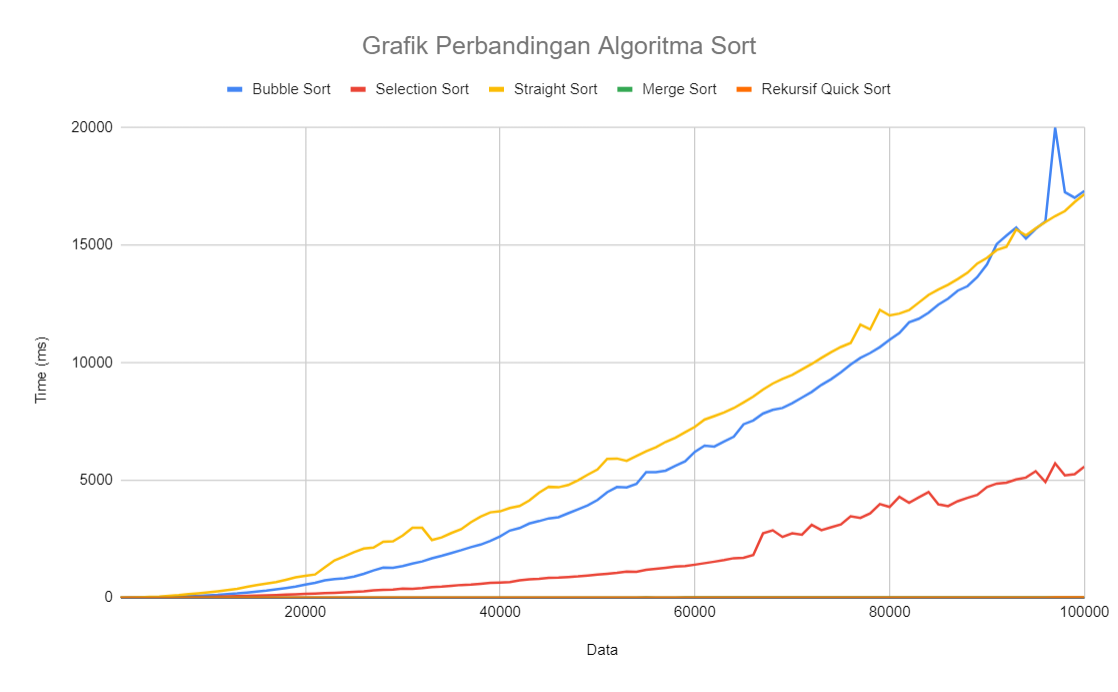
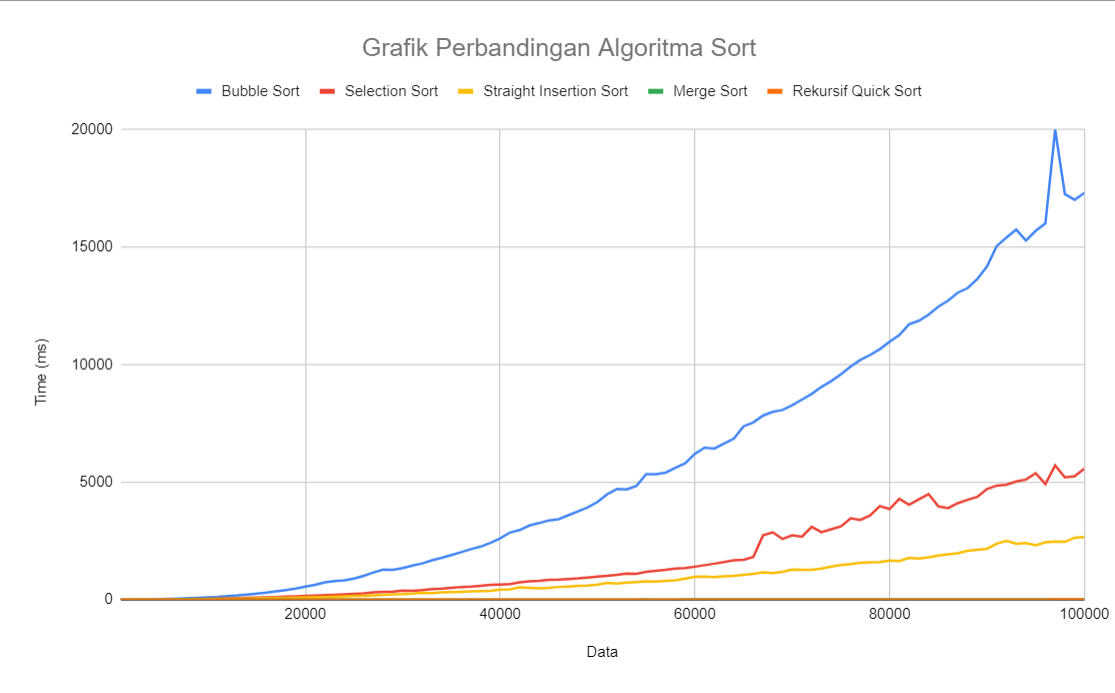
upload the source code

diff --git a/src/Merge_Sort.cpp b/src/Merge_Sort.cpp
@@ -1,0 +1,111 @@
+#include <chrono>
+#include <cstdlib>
+#include <iostream>
+using namespace std;
+int *generate_random_int(int n) {
+  int *data = new int[n];
+  for (int i = 0; i < n; i++) {
+    data[i] = rand();
+  }
+  return data;
+}
+bool is_sorted(int *data, int n) {
+  for (int i = 1; i < n; i++) {
+    if (data[i - 1] > data[i]) {
+      return false;
+    }
+  }
+  return true;
+}
+void merge(int *data, int left, int mid, int right) {
+    int i, j, k;
+    int n1 = mid - left + 1;
+    int n2 = right - mid;
+
+    // Create R and L arrays
+    int *L = new int[n1];
+    int *R = new int[n2];
+
+    // Copy data to R and L arrays
+    for (i = 0; i < n1; i++)
+        L[i] = data[left + i];
+    for (j = 0; j < n2; j++)
+        R[j] = data[mid + 1 + j];
+
+    // Merge the R and L arrays back into data[left..right]
+    i = 0;
+    j = 0;
+    k = left;
+    while (i < n1 && j < n2) {
+        if (L[i] <= R[j]) {
+            data[k] = L[i];
+            i++;
+        } else {
+            data[k] = R[j];
+            j++;
+        }
+        k++;
+    }
+
+    // Copy the remaining elements of L[], if there are any
+    while (i < n1) {
+        data[k] = L[i];
+        i++;
+        k++;
+    }
+
+    // Copy the remaining elements of R[], if there are any
+    while (j < n2) {
+        data[k] = R[j];
+        j++;
+        k++;
+    }
+
+    // Free arrays
+    delete[] L;
+    delete[] R;
+}
+
+void mergeSort(int *data, int left, int right) {
+    if (left < right) {
+        int mid = left + (right - left) / 2;
+
+        // Sort first and second halves
+        mergeSort(data, left, mid);
+        mergeSort(data, mid + 1, right);
+
+        // Merge the sorted halves
+        merge(data, left, mid, right);
+    }
+}
+
+void sort(int *data, int n) {
+    mergeSort(data, 0, n - 1);
+}
+int main() {
+  int num_of_experiments = 100;
+  int *data;
+  int n;
+  // DEBUG
+  // The program will stop if the sorting is incorrect
+  n = 100;
+  data = generate_random_int(n);
+  sort(data, n);
+  if (!is_sorted(data, n)) {
+    throw runtime_error("Sorting function ERROR.");
+  }
+  // EXPERIMENTS
+  cout << "data, time (ms)\n";
+  cout << " \n";
+  for (int i = 1; i <= num_of_experiments; i++) {
+    n = i * 1000;
+    data = generate_random_int(n);
+    auto start = chrono::high_resolution_clock::now();
+    sort(data, n);
+    auto stop = chrono::high_resolution_clock::now();
+    auto duration = chrono::duration_cast<chrono::milliseconds>(stop - start);
+    cout << n << ", " << duration.count() << "\n";
+    delete data;
+  }
+  return 0;
+}

diff --git a/src/Quick_Sort.cpp b/src/Quick_Sort.cpp
@@ -1,0 +1,65 @@
+#include <chrono>
+#include <cstdlib>
+#include <iostream>
+using namespace std;
+int *generate_random_int(int n) {
+  int *data = new int[n];
+  for (int i = 0; i < n; i++) {
+    data[i] = rand();
+  }
+  return data;
+}
+bool is_sorted(int *data, int n) {
+  for (int i = 1; i < n; i++) {
+    if (data[i - 1] > data[i]) {
+      return false;
+    }
+  }
+  return true;
+}
+void quickSort(int *data, int left, int right) {
+    if (left < right) {
+        int pivot = data[right];
+        int i = left - 1;
+        for (int j = left; j <= right - 1; j++) {
+            if (data[j] < pivot) {
+                i++;
+                swap(data[i], data[j]);
+            }
+        }
+        swap(data[i + 1], data[right]);
+        int partitionIndex = i + 1;
+        quickSort(data, left, partitionIndex - 1);
+        quickSort(data, partitionIndex + 1, right);
+    }
+}
+void sort(int *data, int n) {
+    quickSort(data, 0, n - 1);
+}
+int main() {
+  int num_of_experiments = 100;
+  int *data;
+  int n;
+  // DEBUG
+  // The program will stop if the sorting is incorrect
+  n = 100;
+  data = generate_random_int(n);
+  sort(data, n);
+  if (!is_sorted(data, n)) {
+    throw runtime_error("Sorting function ERROR.");
+  }
+  // EXPERIMENTS
+  cout << "data, time (ms)\n";
+  cout << " \n";
+  for (int i = 1; i <= num_of_experiments; i++) {
+    n = i * 1000;
+    data = generate_random_int(n);
+    auto start = chrono::high_resolution_clock::now();
+    sort(data, n);
+    auto stop = chrono::high_resolution_clock::now();
+    auto duration = chrono::duration_cast<chrono::milliseconds>(stop - start);
+    cout << n << ", " << duration.count() << "\n";
+    delete data;
+  }
+  return 0;
+}

diff --git a/src/Bubble_Sort.cpp b/src/Bubble_Sort.cpp
@@ -1,0 +1,58 @@
+#include <chrono>
+#include <cstdlib>
+#include <iostream>
+using namespace std;
+int *generate_random_int(int n) {
+  int *data = new int[n];
+  for (int i = 0; i < n; i++) {
+    data[i] = rand();
+  }
+  return data;
+}
+bool is_sorted(int *data, int n) {
+  for (int i = 1; i < n; i++) {
+    if (data[i - 1] > data[i]) {
+      return false;
+    }
+  }
+  return true;
+}
+void sort(int *data, int n) {
+    for (int i = 0; i < n - 1; i++) {
+        for (int j = 0; j < n - i - 1; j++) {
+            if (data[j] > data[j + 1]) {
+                // Swap data[j] and data[j+1]
+                int temp = data[j];
+                data[j] = data[j + 1];
+                data[j + 1] = temp;
+            }
+        }
+    }
+}
+int main() {
+  int num_of_experiments = 100;
+  int *data;
+  int n;
+  // DEBUG
+  // The program will stop if the sorting is incorrect
+  n = 100;
+  data = generate_random_int(n);
+  sort(data, n);
+  if (!is_sorted(data, n)) {
+    throw runtime_error("Sorting function ERROR.");
+  }
+  // EXPERIMENTS
+  cout << "data, time (ms)\n";
+  cout << " \n";
+  for (int i = 1; i <= num_of_experiments; i++) {
+    n = i * 1000;
+    data = generate_random_int(n);
+    auto start = chrono::high_resolution_clock::now();
+    sort(data, n);
+    auto stop = chrono::high_resolution_clock::now();
+    auto duration = chrono::duration_cast<chrono::milliseconds>(stop - start);
+    cout << n << ", " << duration.count() << "\n";
+    delete data;
+  }
+  return 0;
+}

diff --git a/src/Selection_Sort.cpp b/src/Selection_Sort.cpp
@@ -1,0 +1,57 @@
+#include <chrono>
+#include <cstdlib>
+#include <iostream>
+using namespace std;
+int *generate_random_int(int n) {
+  int *data = new int[n];
+  for (int i = 0; i < n; i++) {
+    data[i] = rand();
+  }
+  return data;
+}
+bool is_sorted(int *data, int n) {
+  for (int i = 1; i < n; i++) {
+    if (data[i - 1] > data[i]) {
+      return false;
+    }
+  }
+  return true;
+}
+void sort(int *data, int n) {
+    for (int i = 0; i < n - 1; i++) {
+        int min_idx = i;
+        for (int j = i + 1; j < n; j++) {
+            if (data[j] < data[min_idx]) {
+                min_idx = j;
+            }
+        }
+        swap(data[i], data[min_idx]);
+    }
+}
+int main() {
+  int num_of_experiments = 100;
+  int *data;
+  int n;
+  // DEBUG
+  // The program will stop if the sorting is incorrect
+  n = 100;
+  data = generate_random_int(n);
+  sort(data, n);
+  if (!is_sorted(data, n)) {
+    throw runtime_error("Sorting function ERROR.");
+  }
+  // EXPERIMENTS
+  cout << "data, time (ms)\n";
+  cout << " \n";
+  for (int i = 1; i <= num_of_experiments; i++) {
+    n = i * 1000;
+    data = generate_random_int(n);
+    auto start = chrono::high_resolution_clock::now();
+    sort(data, n);
+    auto stop = chrono::high_resolution_clock::now();
+    auto duration = chrono::duration_cast<chrono::milliseconds>(stop - start);
+    cout << n << ", " << duration.count() << "\n";
+    delete data;
+  }
+  return 0;
+}

diff --git a/src/Straight_Insertion_Sort.cpp b/src/Straight_Insertion_Sort.cpp
@@ -1,0 +1,64 @@
+#include <chrono>
+#include <cstdlib>
+#include <iostream>
+using namespace std;
+
+int *generate_random_int(int n) {
+  int *data = new int[n];
+  for (int i = 0; i < n; i++) {
+    data[i] = rand();
+  }
+  return data;
+}
+
+bool is_sorted(int *data, int n) {
+  for (int i = 1; i < n; i++) {
+    if (data[i - 1] > data[i]) {
+      return false;
+    }
+  }
+  return true;
+}
+
+void sort(int *data, int n) {
+  int i, j, x;
+  for (i = 1; i < n; i++) {
+    x = data[i];
+    j = i - 1;
+    while (j >= 0 && x < data[j]) {  
+      data[j + 1] = data[j];
+      j--;
+    }
+    data[j + 1] = x;
+  }
+}
+
+int main() {
+  int num_of_experiments = 100;
+  int *data;
+  int n;
+
+  // DEBUG
+  // The program will stop if the sorting is incorrect
+  n = 100;
+  data = generate_random_int(n);
+  sort(data, n);
+  if (!is_sorted(data, n)) {
+    delete[] data;
+    throw runtime_error("Sorting function ERROR.");
+  }
+  delete[] data;
+
+  // EXPERIMENTS
+  cout << "data, time (ms)\n";
+  for (int i = 1; i <= num_of_experiments; i++) {
+    n = i * 1000;
+    data = generate_random_int(n);
+    auto start = chrono::high_resolution_clock::now();
+    sort(data, n);
+    auto stop = chrono::high_resolution_clock::now();
+    auto duration = chrono::duration_cast<chrono::milliseconds>(stop - start);
+    cout << n << ", " << duration.count() << "\n";
+    delete[] data;
+  return 0;
+}
